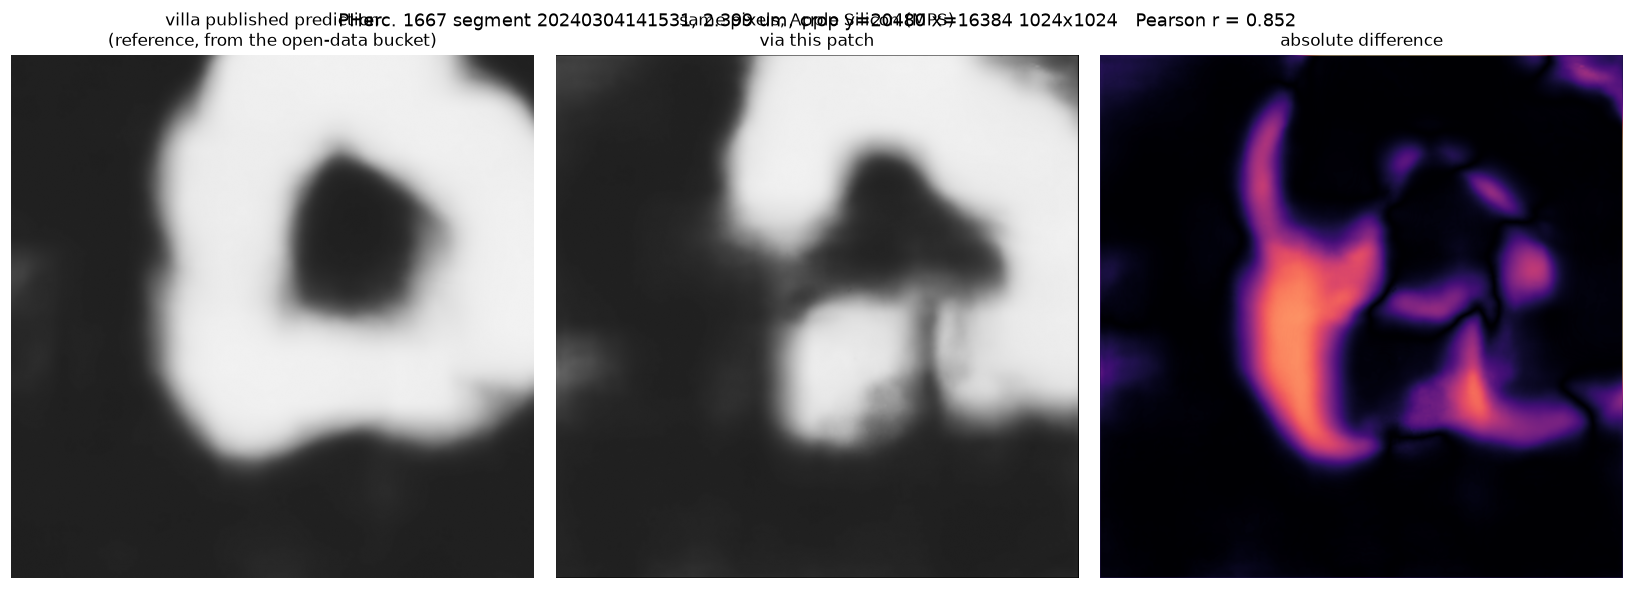
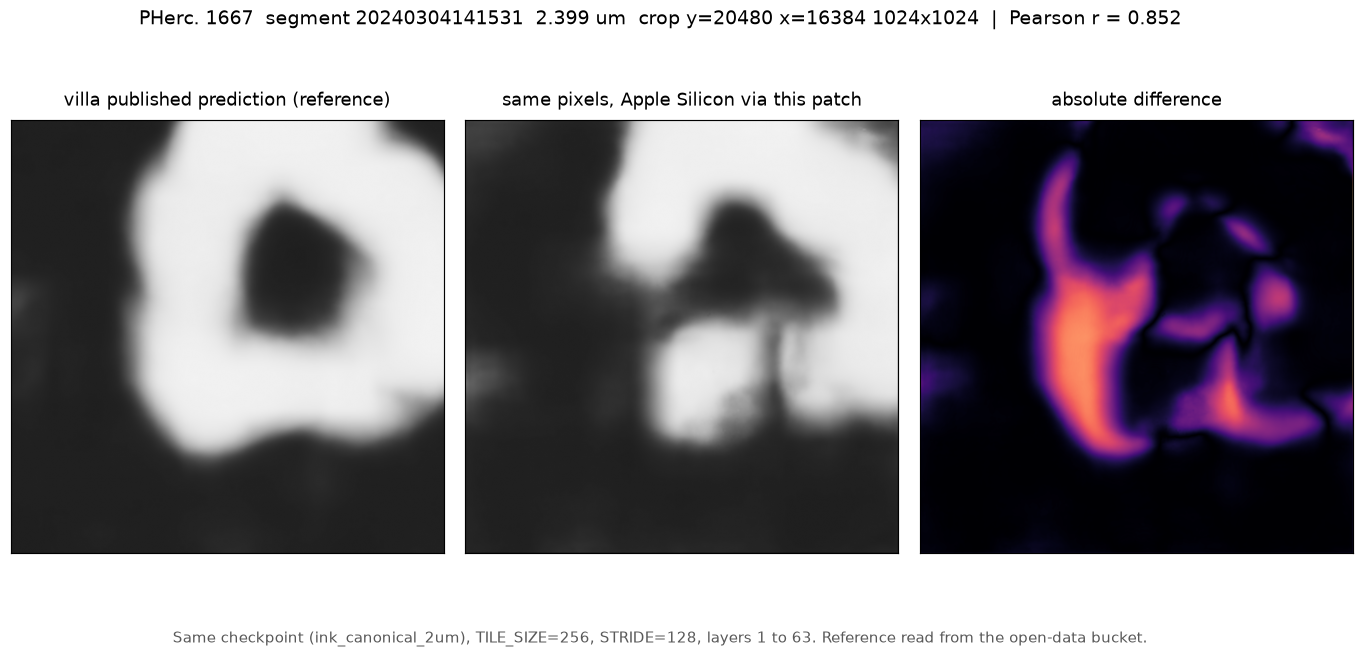
Separate the three correctness questions, and add the 4096 crop
The patch's own fidelity (CPU vs MPS, 9.54e-07 with a negative control) is a
different question from whether the output matches the published map, and
they have different answers. The 4096 crop agrees with the published
prediction at r=0.608, weaker than the 1024 crop's 0.852, and both are
reported rather than only the better one.

Adds the end-to-end measurement of what correcting amp_device actually does
to the output: Pearson 0.9999995 between the two, and the ink decision at
0.5 flips on 0.014 percent of pixels.

diff --git a/bench/amp_endtoend.py b/bench/amp_endtoend.py
@@ -1,0 +1,56 @@
+"""AGENTS.md 1.3: how much does correcting amp_device change the REAL output?
+
+Runs villa's full pipeline on the same real crop twice on MPS, once with the
+current amp_device expression (a no-op) and once corrected, and diffs the
+blended prediction. Nothing synthetic.
+"""
+import json, sys, time, pathlib
+import numpy as np, torch, zarr
+R = pathlib.Path(__file__).resolve().parent.parent
+D = R/"villa"/"ink-detection"/"optimized_inference"
+sys.path.insert(0, str(D)); sys.path.insert(0, str(R/"ops"))
+import inference as vinf
+from inference import run_inference, CFG
+from model_resnet3d_3d_decoder import load_model
+import device_utils
+
+Y0, X0, SZ = 20480, 16384, 1024
+BUCKET = "vesuvius-challenge-open-data"
+ZP = ("PHerc1667/segments/20240304141531-w013_20240304141531_flatboi"
+      "/surface-volumes/2.399um-0.22m-78keV-volume-20251217075048.zarr")
+store = zarr.storage.FsspecStore.from_url(f"s3://{BUCKET}/{ZP}", storage_options={"anon": True})
+arr = zarr.open_group(store=store, mode="r")["0"]
+layers = np.ascontiguousarray(np.transpose(np.asarray(arr[1:63, Y0:Y0+SZ, X0:X0+SZ]), (1, 2, 0)))
+print("read", layers.shape, flush=True)
+
+CFG.model_type = "resnet3d-152-3d-decoder"; CFG.in_chans = 62
+CFG.tile_size = CFG.size = 256; CFG.stride = 128; CFG.batch_size = 4; CFG.workers = 0
+CFG.zarr_output_dir = str(R/"results"/"partitions_amp"); pathlib.Path(CFG.zarr_output_dir).mkdir(parents=True, exist_ok=True)
+dev = torch.device("mps")
+model = load_model(str(R/"models"/"r152_3ddec_v2_l5_epoch13.ckpt"), dev, num_frames=62)
+
+real = device_utils.amp_device_type
+outs = {}
+for tag, fn in (("villa_current_amp", lambda d: "cuda" if d.type == "cuda" else "cpu"),
+                ("corrected_amp", real)):
+    vinf.amp_device_type = fn
+    t0 = time.time(); res = run_inference(layers, model, dev); dt = time.time()-t0
+    pred = np.asarray(zarr.open(res["mask_pred"], mode="r"))
+    cnt = np.asarray(zarr.open(res["mask_count"], mode="r"))
+    outs[tag] = {"blend": np.divide(pred, cnt, out=np.zeros_like(pred), where=cnt > 0),
+                 "seconds": round(dt, 2)}
+    print(f"  {tag}: {dt:.1f}s", flush=True)
+vinf.amp_device_type = real
+
+a, b = outs["villa_current_amp"]["blend"], outs["corrected_amp"]["blend"]
+d = np.abs(a-b)
+rec = {"crop": [Y0, X0, SZ], "tiles": ((SZ-256)//128+1)**2,
+       "villa_current_amp_seconds": outs["villa_current_amp"]["seconds"],
+       "corrected_amp_seconds": outs["corrected_amp"]["seconds"],
+       "speedup_end_to_end": round(outs["villa_current_amp"]["seconds"]/outs["corrected_amp"]["seconds"], 3),
+       "max_abs_diff": float(d.max()), "mean_abs_diff": float(d.mean()),
+       "p99_abs_diff": float(np.percentile(d, 99)),
+       "pearson_between_the_two": float(np.corrcoef(a.ravel(), b.ravel())[0, 1]),
+       "frac_pixels_crossing_0.5_decision": float(((a > 0.5) != (b > 0.5)).mean())}
+(R/"results"/"amp_endtoend.json").write_text(json.dumps(rec, indent=2))
+print(json.dumps(rec, indent=2), flush=True)

diff --git a/README.md b/README.md
@@ -96,36 +96,72 @@ autocast, they are getting none at all, with no error and no warning.
 
 ## Correctness
 
-The ported path was checked against villa's own published prediction for the
-same segment
-(`...new_canon_autoresearch_recipe-tile256-stride128.tif` in the open-data
-bucket), which is on the same 41600 x 79600 grid as the level-0 surface, so a
-crop maps onto it one to one.
+Three separate questions, kept separate because they have different answers.
 
-| comparison | Pearson | Spearman |
-|---|---|---|
-| **aligned, same pixels** | **0.8521** | **0.8350** |
-| reference shifted right one crop | 0.4232 | 0.3991 |
-| reference shifted down one crop | 0.2283 | 0.2510 |
-| a far region of the reference | -0.0597 | -0.0687 |
-| same crop, pixels shuffled | 0.0008 | -0.0052 |
+### 1. Does the patch change what the model computes? No.
 
-The shifted comparisons score above zero because neighbouring crops share
-papyrus sheet structure, which is why the shuffle is also there.
+Same fixed input, CPU against MPS, single forward:
 
-**This is a reproduction, not bit-equality, and the gap is not explained.** The
-published file is named `new_canon_autoresearch_recipe`, which may not be the
-`ink_canonical_2um` checkpoint used here, and crop-edge blending differs from a
-whole-segment run.
+| comparison | max absolute difference |
+|---|---|
+| CPU vs MPS, same input | **9.54e-07** |
+| CPU vs MPS, DIFFERENT input (negative control) | 0.165 |
 
-**The first comparison run was worthless and nearly passed.** A crop at
-y=20000, x=40000 gave an aligned r of 0.0688 while still beating every control.
-The reference has a standard deviation of 0.0116 there: a blank region with no
-ink cannot tell a correct port from a broken one. Scanning 100 windows of the
-reference put the ink-bearing regions at up to 0.3664, about 30x higher, and
-the numbers above come from one of those.
+The negative control is there because an agreement of ~0 with nothing to
+compare it against would only prove the model ignores its input. It
+discriminates by five orders of magnitude.
 
-![prediction vs reference](figures/prediction_vs_reference.png)
+### 2. How much does correcting `amp_device` change the real output?
+
+This is the question `AGENTS.md` 1.3 asks, so it is measured end to end on a
+real crop rather than on a single tensor. villa's full pipeline, same 1024x1024
+crop, 49 tiles, run twice on MPS with only the autocast device type differing:
+
+| | |
+|---|---|
+| wall clock, current `amp_device` | 25.37 s |
+| wall clock, corrected | 20.84 s (**1.217x**) |
+| Pearson between the two outputs | **0.9999995** |
+| mean absolute difference | 1.37e-04 |
+| 99th percentile absolute difference | 1.78e-03 |
+| max absolute difference | 3.17e-03 |
+| **pixels whose ink/no-ink decision at 0.5 flips** | **0.014%** |
+
+So the precision relaxation is real and it is small: 138 pixels in a million
+change side of the 0.5 threshold. That is the trade, stated so it can be judged
+rather than assumed.
+
+### 3. Does the output match villa's published prediction? Partly, and this is
+### NOT a reproduction claim.
+
+Compared against the published map for the same segment
+(`...new_canon_autoresearch_recipe-tile256-stride128.tif`), which is on the
+same 41600 x 79600 grid as the level-0 surface, so crops map one to one:
+
+| crop | aligned Pearson | aligned Spearman | best negative control |
+|---|---|---|---|
+| 4096x4096, 961 tiles | **0.608** | **0.275** | 0.047 |
+| 1024x1024, 49 tiles | 0.852 | 0.835 | 0.423 |
+
+Aligned beats every control at both sizes (controls: the reference shifted one
+crop right, one crop down, a far region, and the same crop shuffled). But the
+agreement is clearly weaker on the larger and more representative region, and
+the Spearman value says the correlation is carried by a few high-signal areas
+rather than by consistent ranking everywhere.
+
+**The larger crop is the honest number. Both are given because quoting only the
+1024 result after having seen the 4096 one would be selection.**
+
+The most likely reason is that the published file is named
+`new_canon_autoresearch_recipe`, which is probably not the `ink_canonical_2um`
+checkpoint used here, so this is a sanity check that the pipeline puts ink-like
+output in ink-like places, not evidence about the patch. **Question 1 is the one
+that speaks to the patch, and it answers cleanly.**
+
+![prediction vs reference](figures/prediction_vs_reference_big.png)
+
+Left is the published prediction, middle is the same pixels through this patch
+on MPS, right is the absolute difference.
 
 ## Also here: running it locally
 
